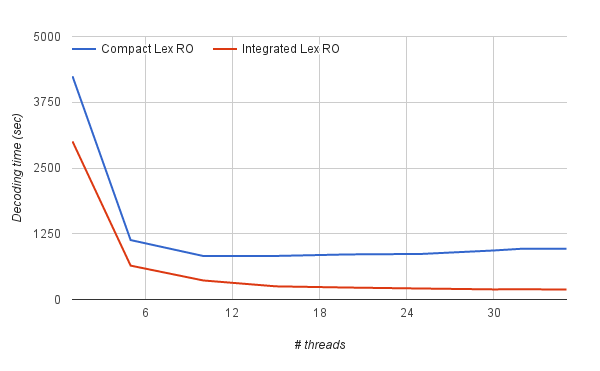
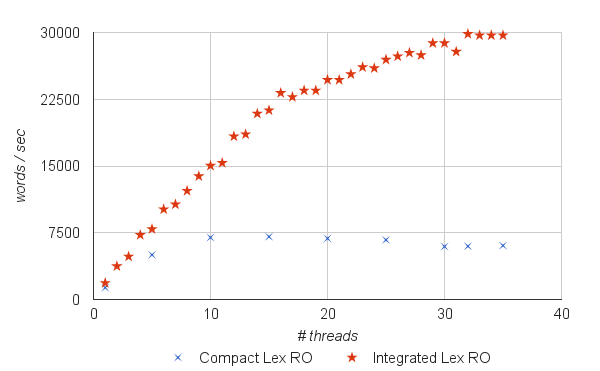
whatever

diff --git a/acl.2016/amta2016.tex b/acl.2016/amta2016.tex
@@ -463,10 +463,10 @@ This resulted in a significant decrease in decoding time, especially with high n
 \begin{tabular}{cc}
 {\includegraphics[scale=0.4]{lex-ro.png}} 
 \end{tabular}
-\caption{Decoding time with Compact Lexicalized Re-ordering, and integrated into a model the phrase-table}
+\caption{Decoding speed with Compact Lexicalized Re-ordering, and integrated into a model the phrase-table}
 \label{fig:lex-ro}
 \end{figure} 
-Decoding time decreased by 29\% with running with a single thread but it is over 5 times faster using 32 threads. %In fact, the decoding time with the integrated model is similar to that \emph{without} a lexicalized re-ordering model\footnote{Strangely, using lexicalized re-ordering model results in slightly faster decoding than without the model. We double checked with other datasets. We suspect this may be an artefact of the algorithm or data structures, for example, more work is needed to resolve hypothesis recombination.}. Critically for systems with multicores servers, it enables the decoder to continue to scale, making efficient use of all available cores. 
+Decoding speed increased by 40\% when using one thread but is 5 times faster when using 32 threads. %In fact, the decoding time with the integrated model is similar to that \emph{without} a lexicalized re-ordering model\footnote{Strangely, using lexicalized re-ordering model results in slightly faster decoding than without the model. We double checked with other datasets. We suspect this may be an artefact of the algorithm or data structures, for example, more work is needed to resolve hypothesis recombination.}. Critically for systems with multicores servers, it enables the decoder to continue to scale, making efficient use of all available cores. 
 
 \subsection{Scalability}
 
